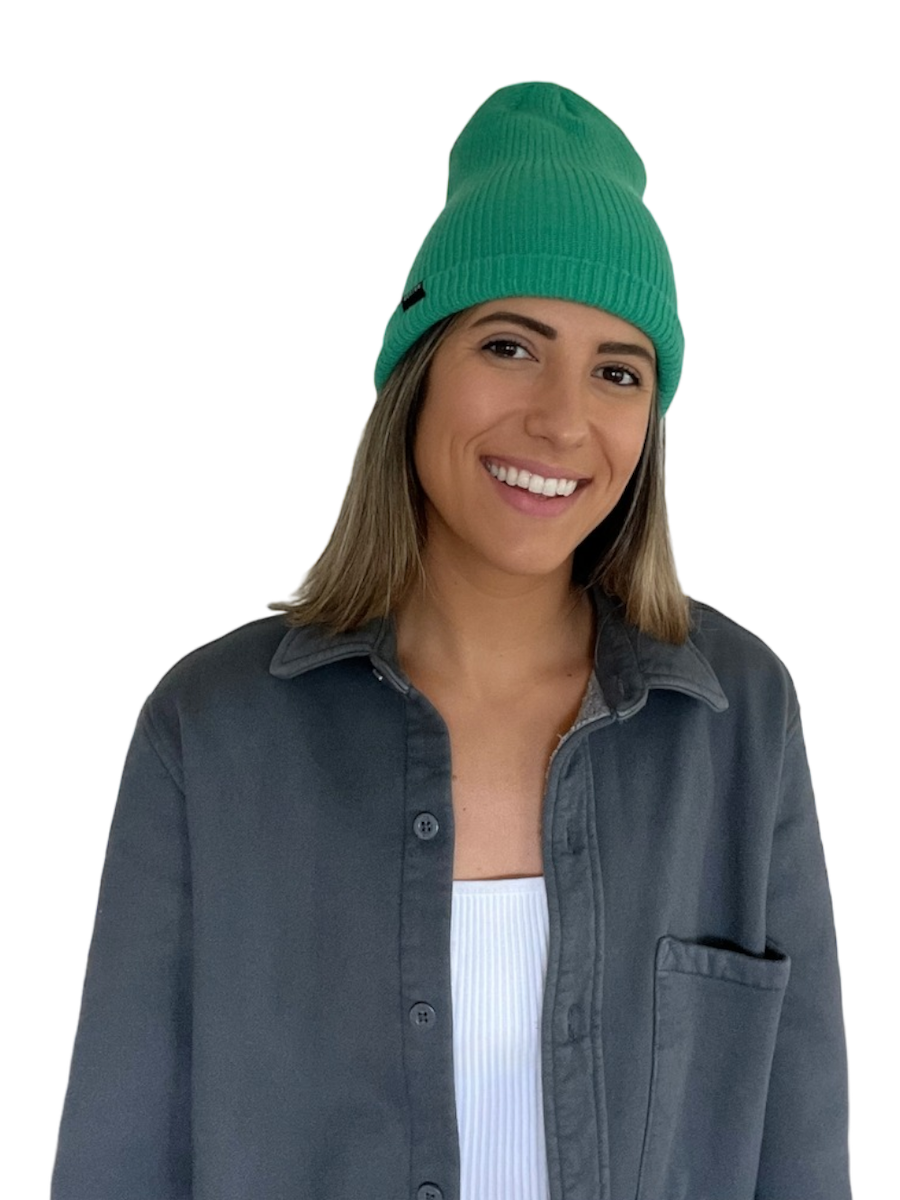
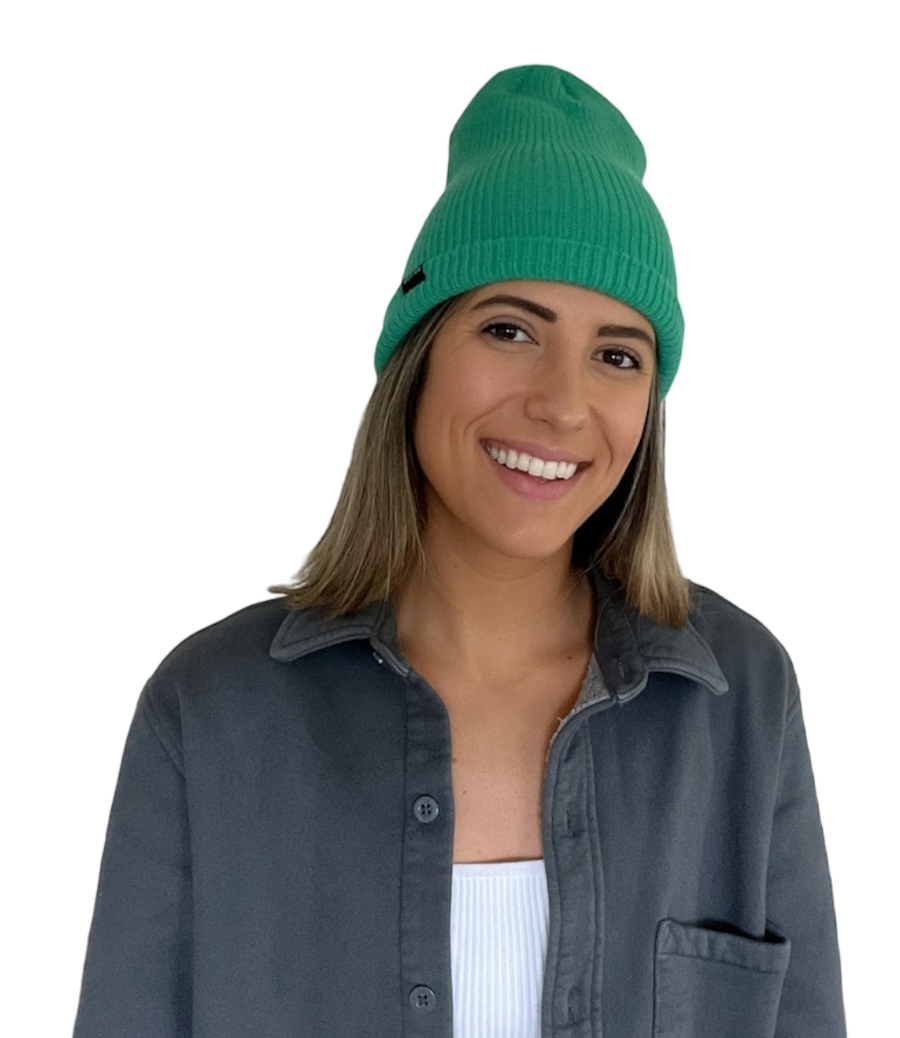
updated selfie

Changed region(s): [[0.0311, 0.1541, 0.9644, 1.0], [0.5289, 0.0617, 0.6533, 0.0925], [0.6533, 0.8632, 0.6844, 0.894]]

diff --git a/assets/styles/_home.scss b/assets/styles/_home.scss
@@ -17,7 +17,6 @@
     display: flex;
     align-items: center;
     justify-content: space-between;
-    // padding: 0 10px;
     div:nth-child(2) h2 {
       color: $ivory;
     }
@@ -43,35 +42,26 @@
 
   .self-portrait-container {
     position: absolute;
-    bottom: 0;
+    bottom: -4px;
     right: 0;
   }
   #self-portrait {
-    // transform: translateY(-14px);
-
-    width: 286px;
-    height: 373px;
-    // width: 301px;
-    // height: 393px;
+    width: 300px;
+    height: auto;
     @media screen and (min-width: $mobile) {
-      //   transform: translateY(104px);
-      width: 364px;
-      height: 475px;
+      width: 340px;
     }
     @media screen and (min-width: $desktop) {
-      //   transform: translateY(69px);
-      width: 416px;
-      height: 543px;
+      width: 460px;
+      height: 588px;
     }
     @media screen and (min-width: $large-desktop) {
-      //   transform: translateY(69px);
-      width: 532px;
-      height: 695px;
+      width: 520px;
+      height: 638px;
     }
     @media screen and (min-width: $xlarge-desktop) {
-      //   transform: translateY(69px);
-      width: 699px;
-      height: 912px;
+      width: 700px;
+      height: 838px;
     }
   }
 }

diff --git a/assets/styles/main.css b/assets/styles/main.css
@@ -215,40 +215,39 @@ p {
 
 .home .self-portrait-container {
   position: absolute;
-  bottom: 0;
+  bottom: -4px;
   right: 0;
 }
 
 .home #self-portrait {
-  width: 286px;
-  height: 373px;
+  width: 300px;
+  height: auto;
 }
 
 @media screen and (min-width: 576px) {
   .home #self-portrait {
-    width: 364px;
-    height: 475px;
+    width: 340px;
   }
 }
 
 @media screen and (min-width: 992px) {
   .home #self-portrait {
-    width: 416px;
-    height: 543px;
+    width: 460px;
+    height: 588px;
   }
 }
 
 @media screen and (min-width: 1440px) {
   .home #self-portrait {
-    width: 532px;
-    height: 695px;
+    width: 520px;
+    height: 638px;
   }
 }
 
 @media screen and (min-width: 1900px) {
   .home #self-portrait {
-    width: 699px;
-    height: 912px;
+    width: 700px;
+    height: 838px;
   }
 }
 

diff --git a/home.html b/home.html
@@ -10,7 +10,7 @@
     <!-- Animate on scroll library -->
     <link rel="stylesheet" href="https://unpkg.com/aos@next/dist/aos.css" />
     <title>Alexandra Hionis | Portfolio</title>
-    
+
     <link rel="icon" type="image/x-icon" href="assets/images/favicon.png" />
 
     <meta name="description" content="I'm Alex - Front End Web Developer" />

diff --git a/assets/styles/_navigation.scss b/assets/styles/_navigation.scss
@@ -14,10 +14,6 @@
     display: flex;
     gap: 20px;
     display: none;
-    // @media screen and (min-width: $mobile) {
-    //   writing-mode: vertical-rl;
-    //   text-orientation: mixed;
-    // }
     &.openSocials {
       display: flex;
     }
